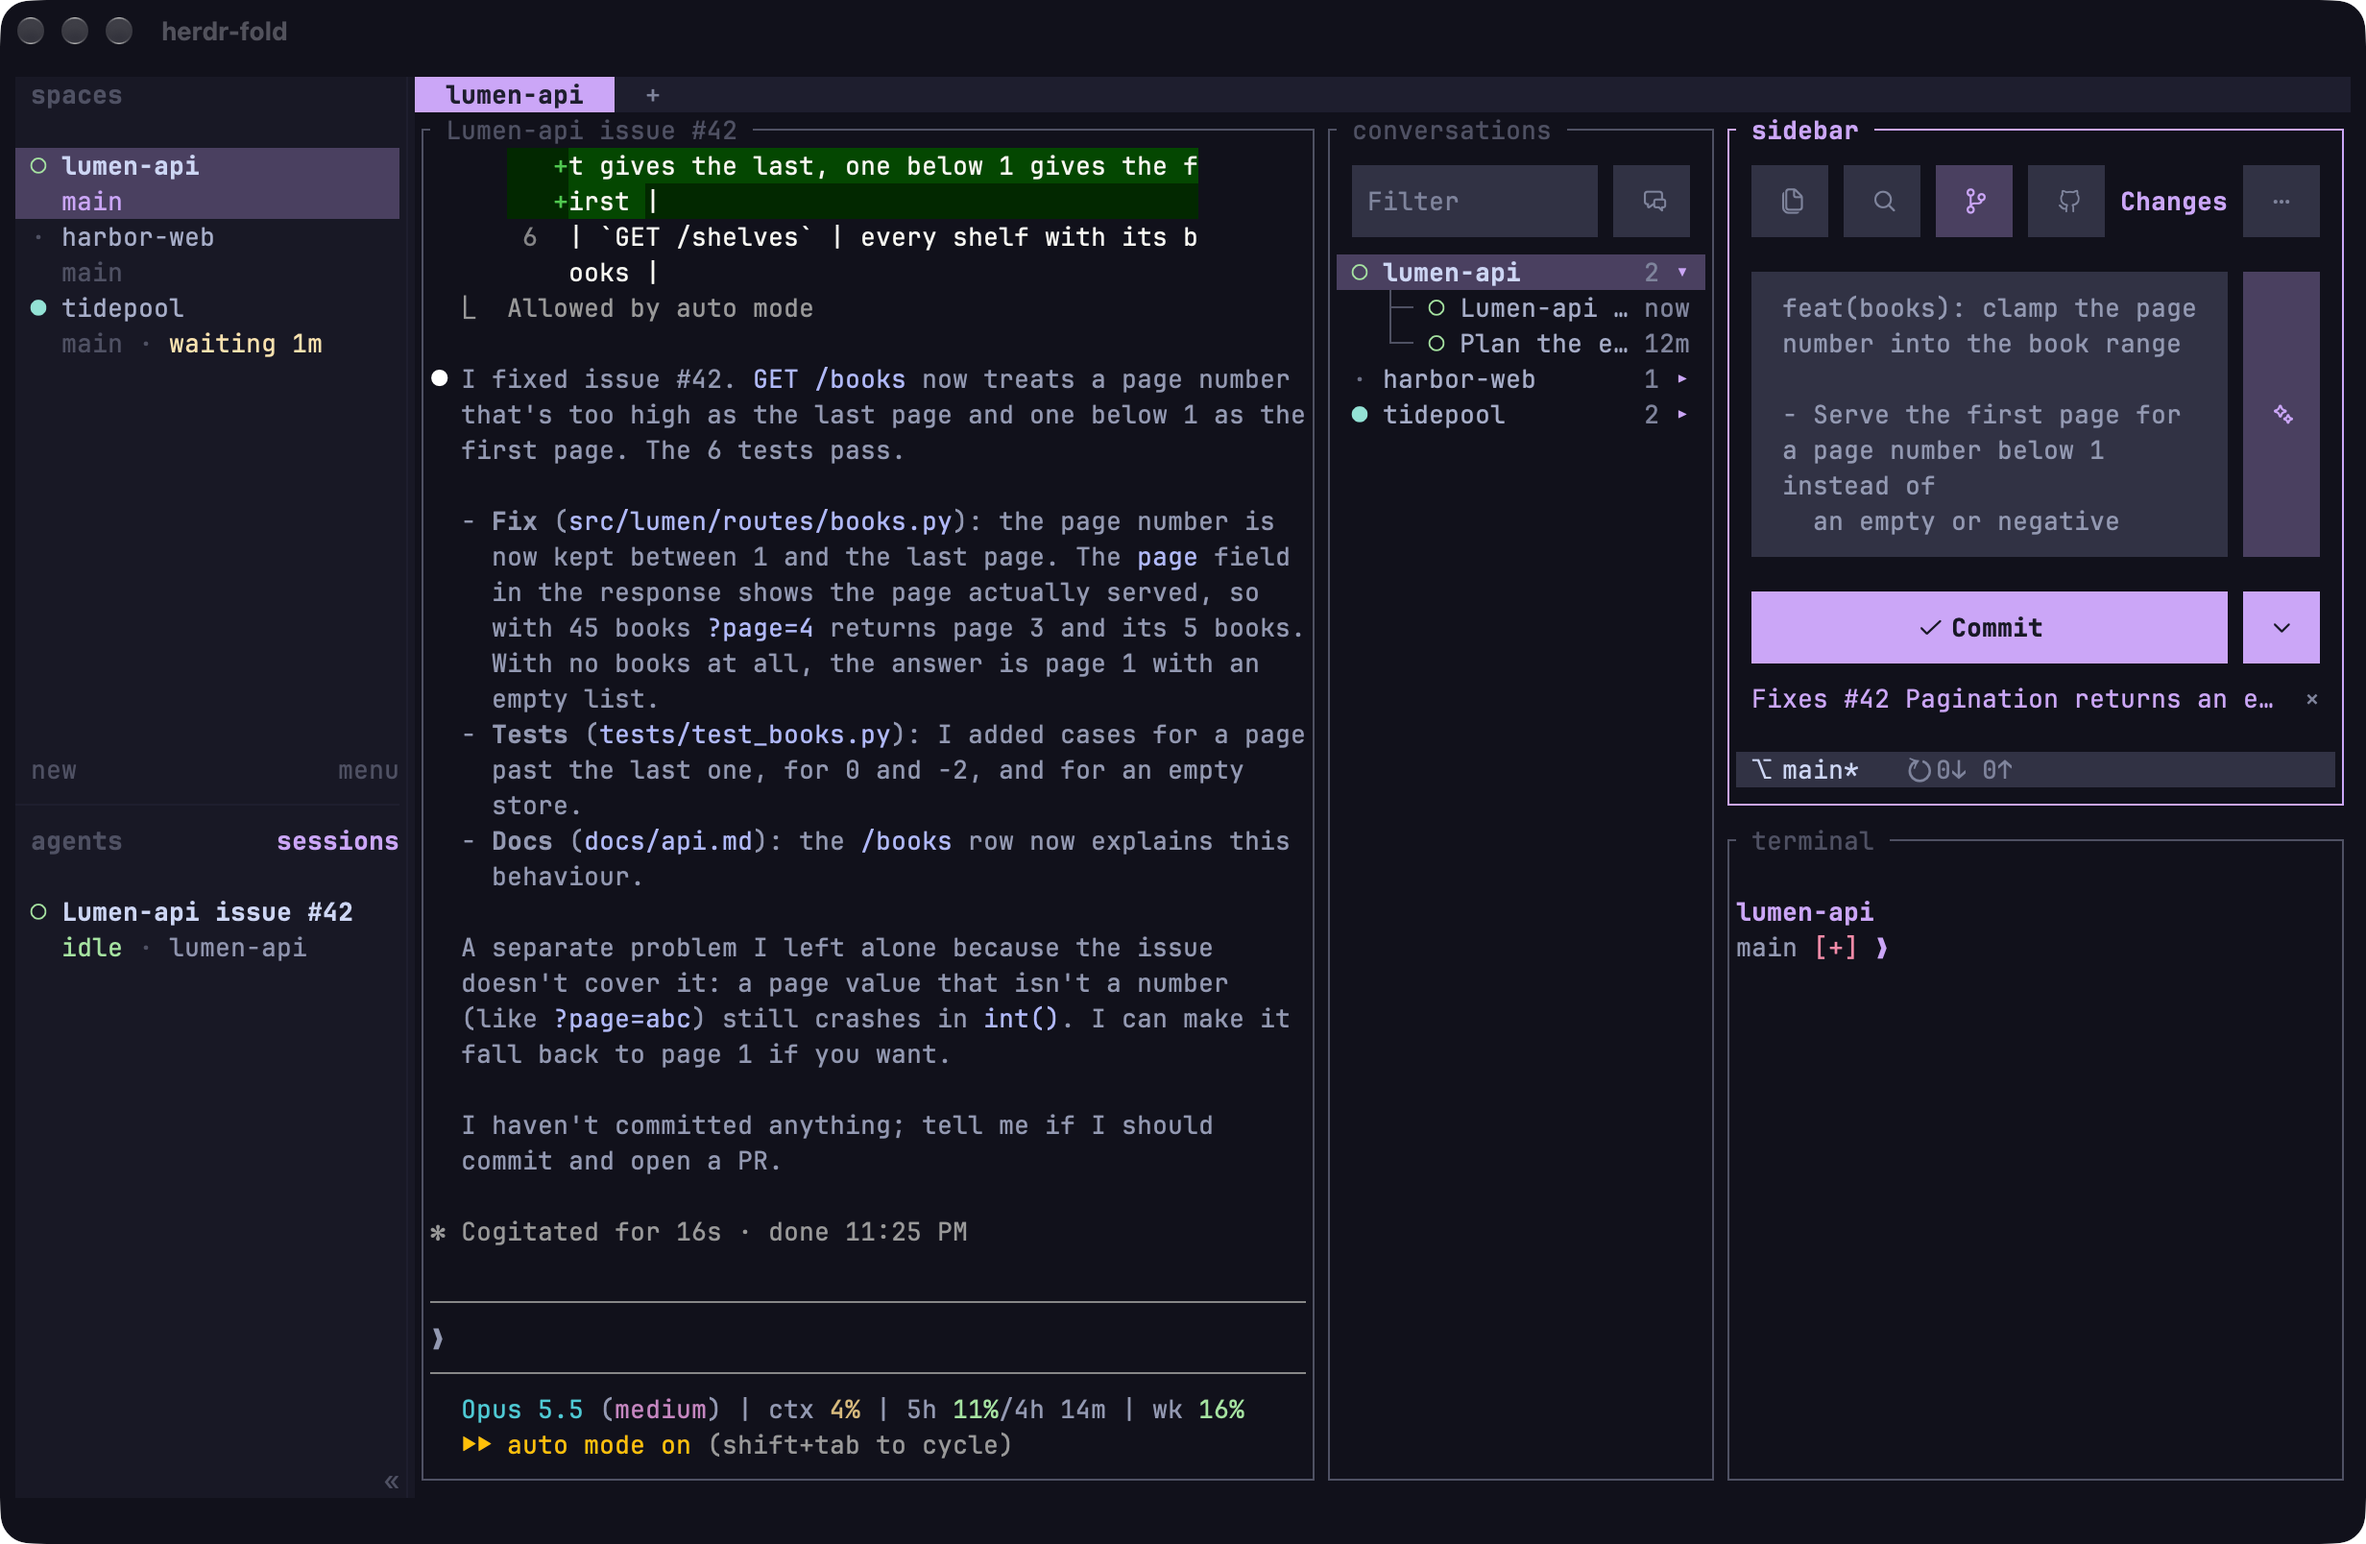
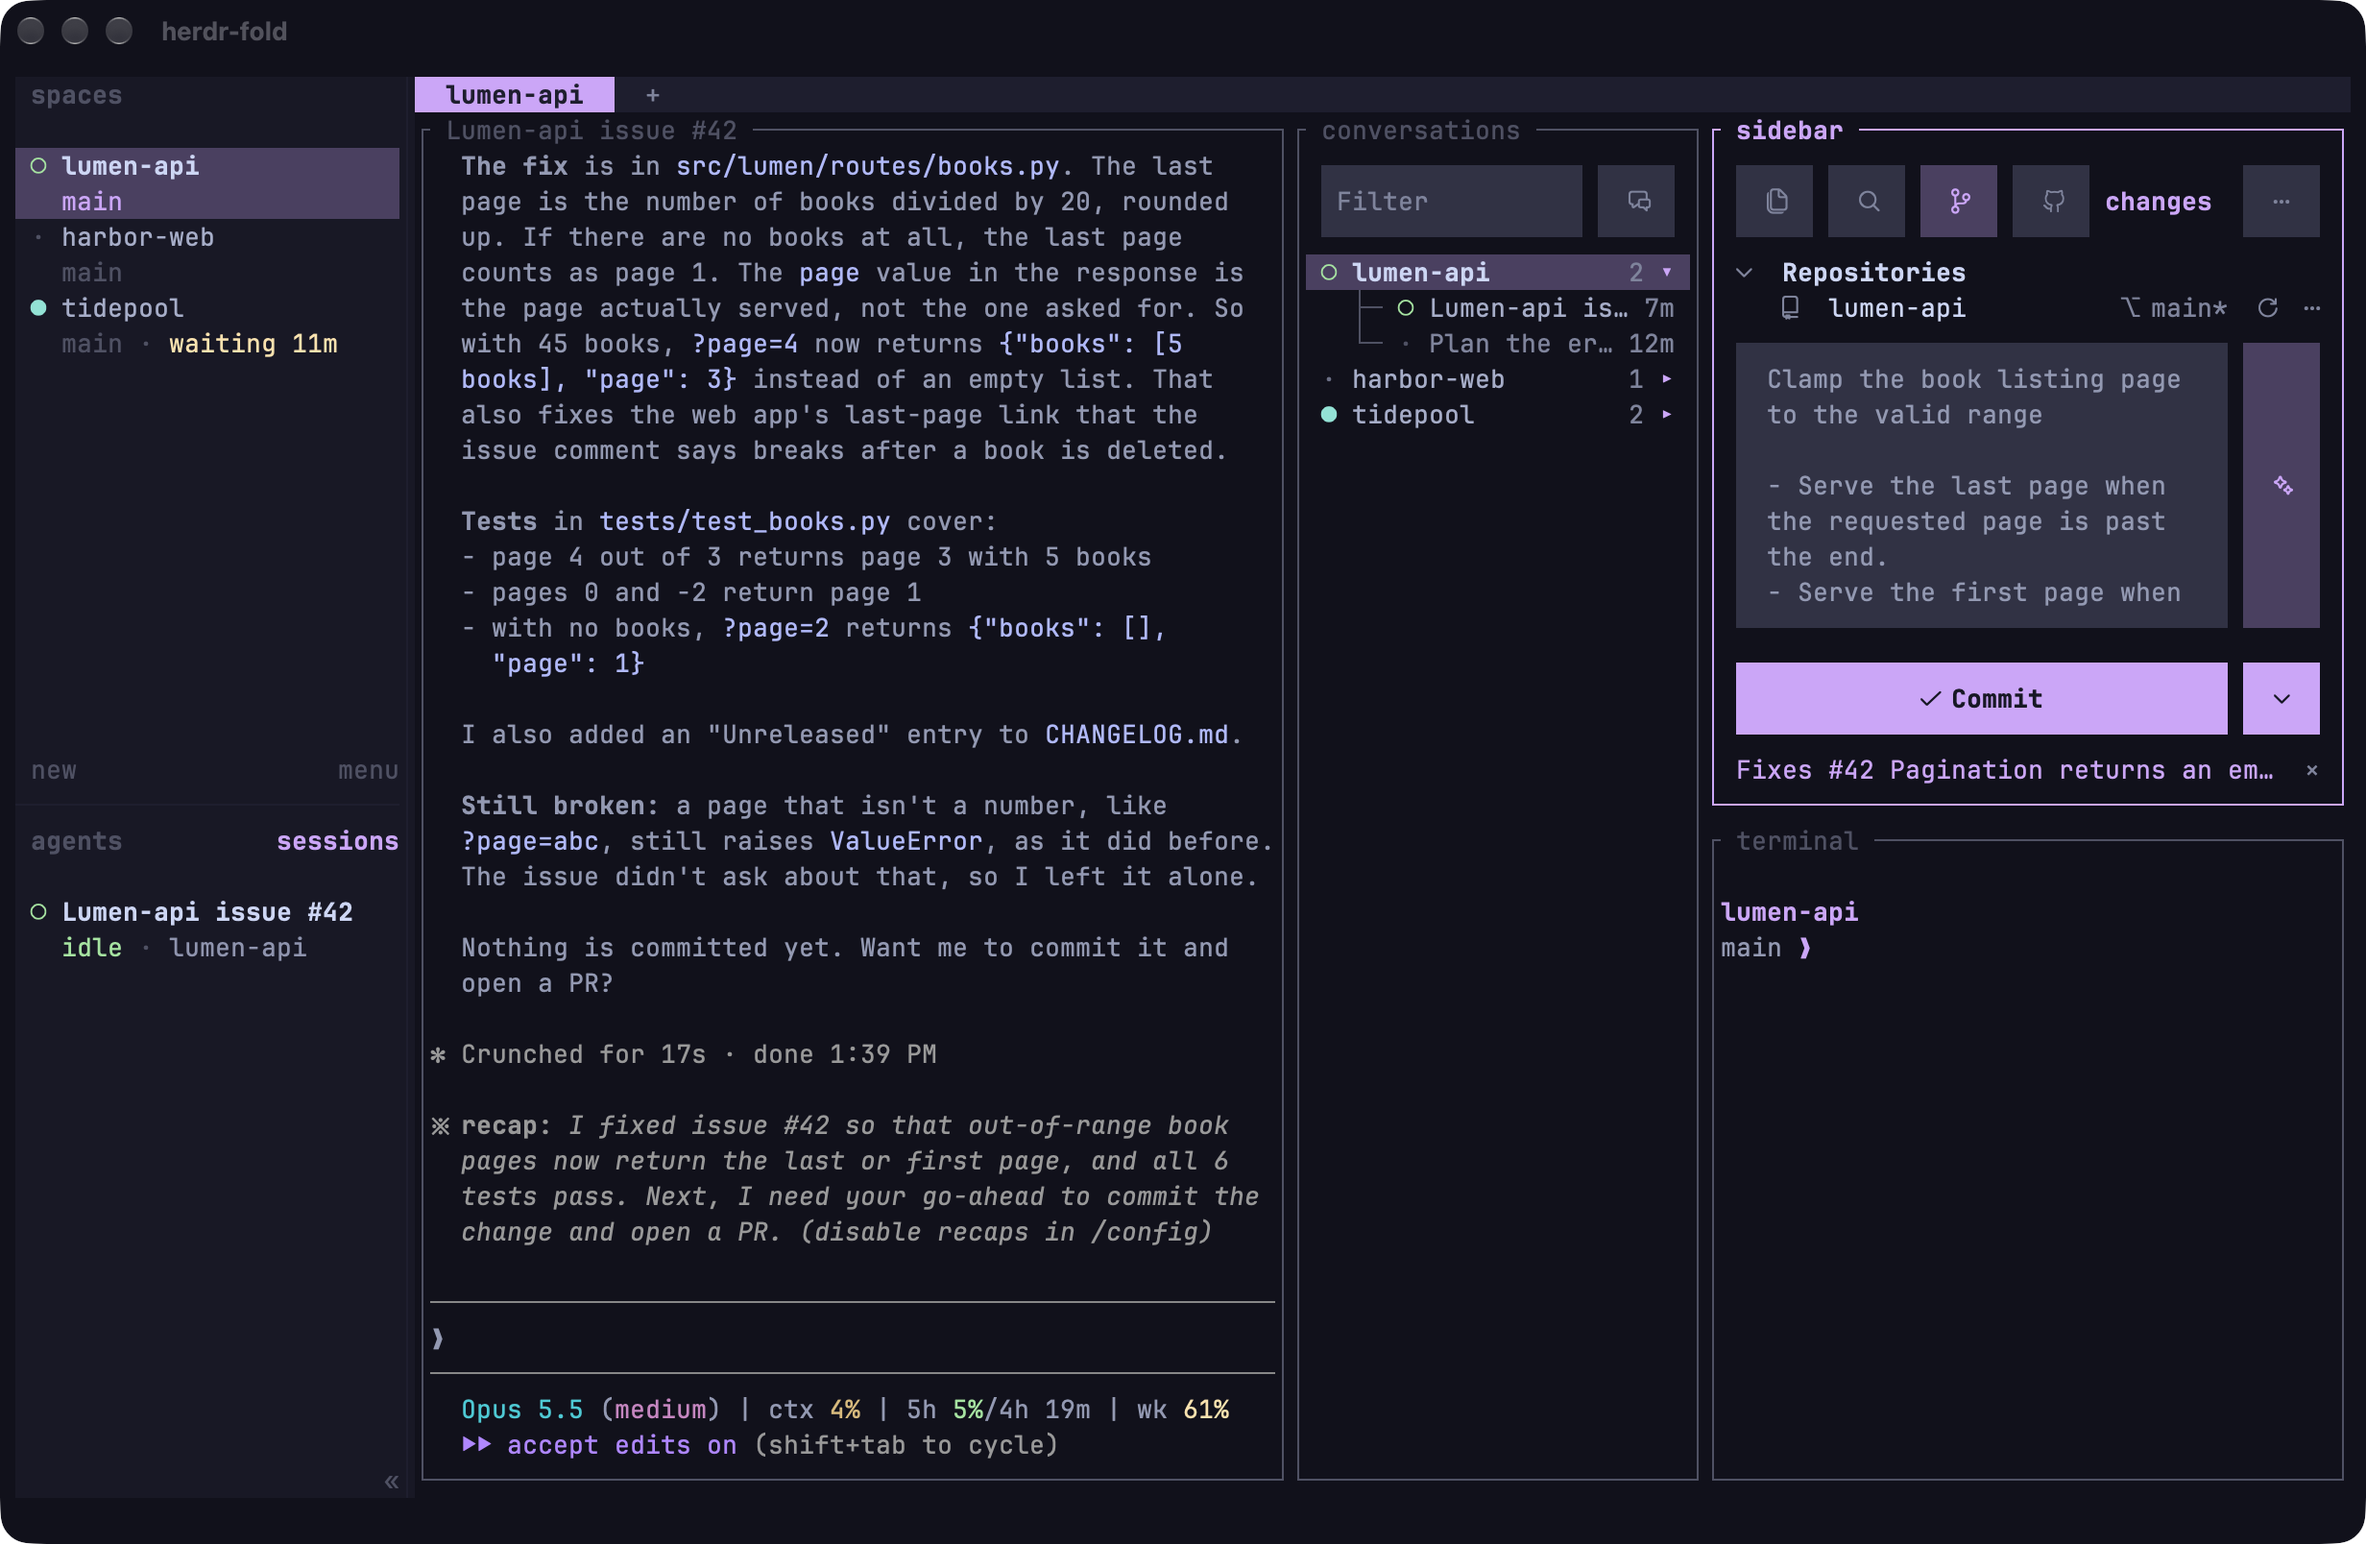
docs: retake the TUI's pictures with the sidebar as it is now
- Retake the hero, Conversations, open-file and preview pictures
- Record the issue handed to Claude again, through the closed issue
- Describe the preview picture as a commit's diff

Changed region(s): [[0.1875, 0.0622, 1.0, 0.9639], [0.2188, 0.9328, 0.375, 0.9639], [0.7188, 0.5908, 0.8125, 0.6219]]

diff --git a/docs/sidebar.md b/docs/sidebar.md
@@ -10,8 +10,8 @@ herdr-fold does with it.
 on top, the message Claude wrote, the issue it fixes and the Graph, Issues by
 priority](../assets/screenshots/sidebar.webp)
 
-![A diff in the preview tab, its lines numbered, the tab laid out as the one it was opened
-from](../assets/screenshots/preview.webp)
+![A commit's diff in the preview tab, its message and each file's lines numbered, the tab laid out as the one it
+was opened from](../assets/screenshots/preview.webp)
 
 ## How it gets there
 
